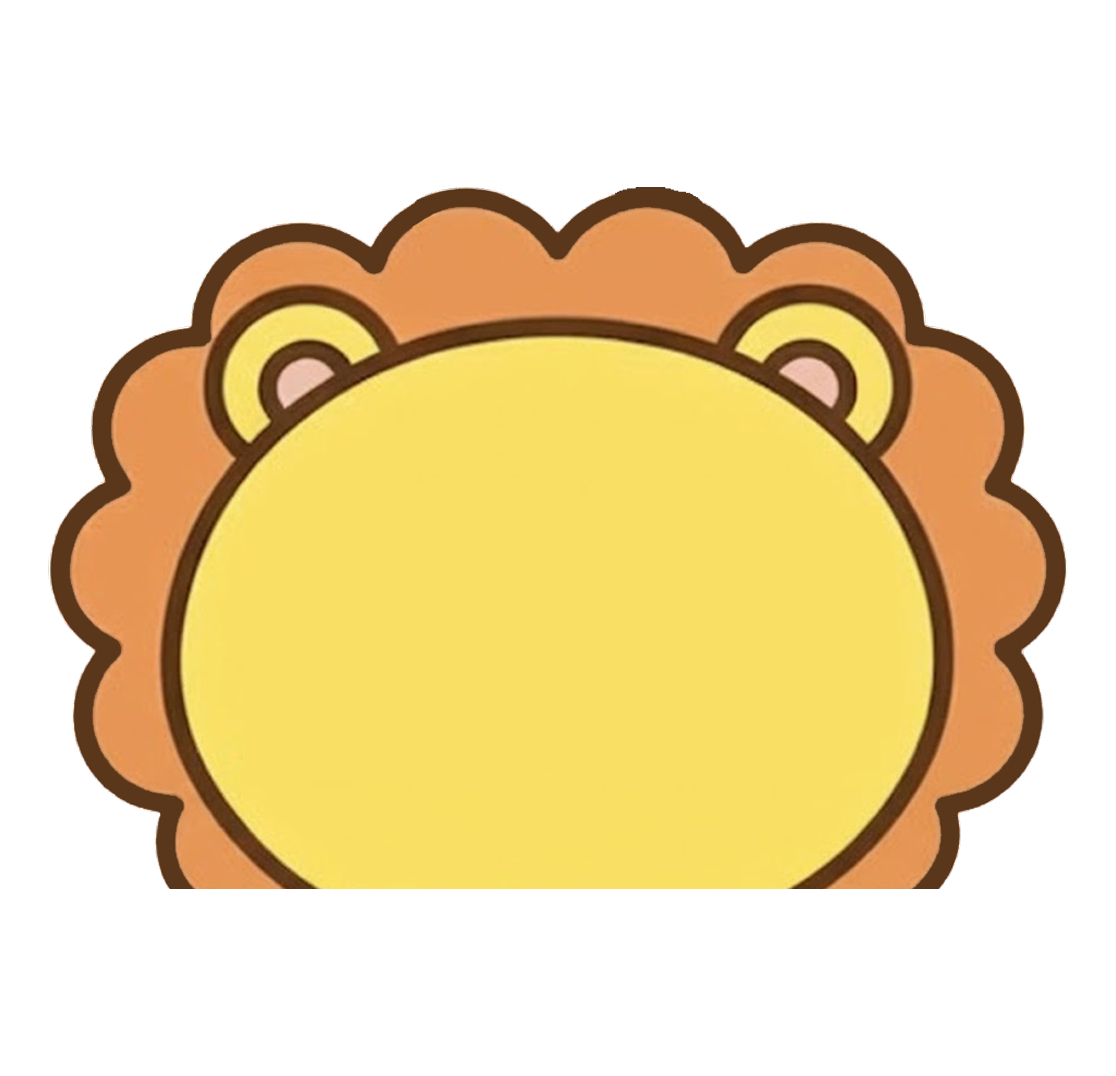
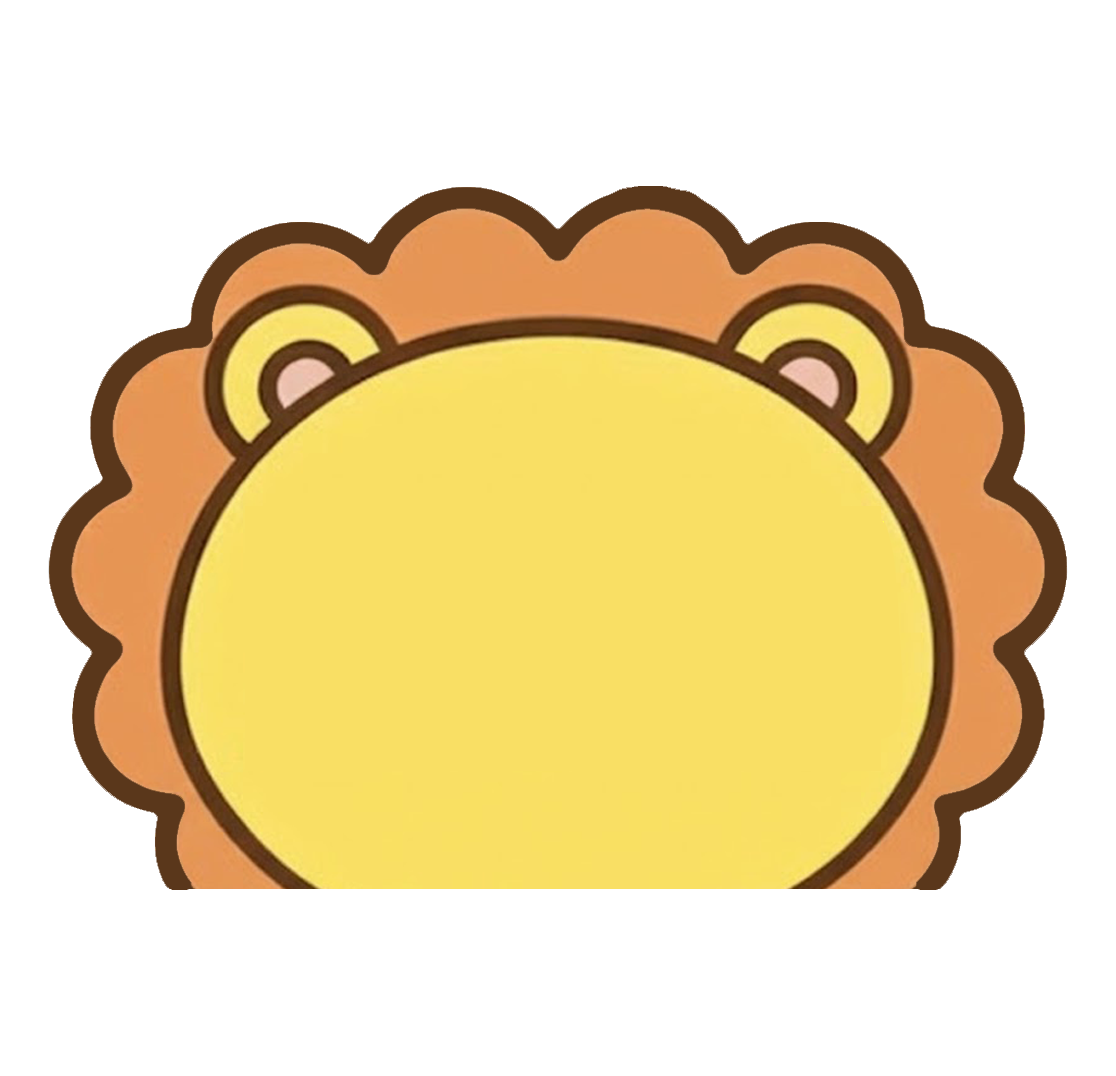
v1.0.5.0: Update character skin assets and improve product description
- Updated lion and panda character skin assets (image optimization)
- Improved product description wording (removed 'music production' and 'gamify' references)
- Updated all version numbers to 1.0.5.0
- Fixed grammar: 'an cute' → 'a cute'
- Updated changelog and documentation

diff --git a/Release/README.md b/Release/README.md
@@ -4,7 +4,7 @@ Advanced audio scripts collection, currently focused on REAPER effect plugins, e
 
 ## 🎵 REAPER Scripts
 
-### zyc_ReaPet (v1.0.4.9)
+### zyc_ReaPet (v1.0.5.0)
 REAPER companion app with the following features:
 - **Operation Statistics** - Track operations, time, and active time (global and project level)
 - **Pomodoro Timer** - Focus/break timer with customizable presets
@@ -96,6 +96,11 @@ For enhanced workflow, we recommend using these scripts together with Zyc Script
 - **Modern UI** - Dark theme, clear visual feedback
 
 ## 📝 Version History
+
+### zyc_ReaPet v1.0.5.0
+- Updated character skin assets (lion and panda head images)
+- Improved product description wording
+- Minor UI refinements
 
 ### zyc_ReaPet v1.0.4.9
 - Timer and preset feature improvements

diff --git a/README.md b/README.md
@@ -27,7 +27,7 @@ zyc-scripts/
 
 ### REAPER Scripts
 
-* **zyc_ReaPet** (v1.0.4.9) - REAPER companion app with operation statistics, pomodoro timer, treasure box system, and 8 character skins
+* **zyc_ReaPet** (v1.0.5.0) - REAPER companion app with operation statistics, pomodoro timer, treasure box system, and 8 character skins
 * **zyc_startup_actions** (v2.2.0) - Startup Actions Manager for configuring commands to run automatically when REAPER starts
 
 ### REAPER Effects
@@ -80,7 +80,7 @@ zyc-scripts/
 
 ## 🎯 Featured Scripts
 
-### zyc_ReaPet (v1.0.4.9)
+### zyc_ReaPet (v1.0.5.0)
 
 A comprehensive REAPER companion application featuring:
 

diff --git a/Release/README_CN.md b/Release/README_CN.md
@@ -4,7 +4,7 @@
 
 ## 🎵 REAPER 脚本
 
-### zyc_ReaPet (v1.0.4.9)
+### zyc_ReaPet (v1.0.5.0)
 REAPER 桌面伴侣应用，具有以下特性：
 - **操作统计** - 追踪操作次数、总时长和活跃时长（全局和项目级别）
 - **番茄钟** - 专注/休息计时器，支持自定义预设
@@ -96,6 +96,11 @@ REAPER 桌面伴侣应用，具有以下特性：
 - **现代UI** - 深色主题，清晰的视觉反馈
 
 ## 📝 版本历史
+
+### zyc_ReaPet v1.0.5.0
+- 更新角色皮肤资源（狮子和熊猫头部图片）
+- 优化产品描述文案
+- 细微 UI 优化
 
 ### zyc_ReaPet v1.0.4.9
 - 计时器和预设功能改进
